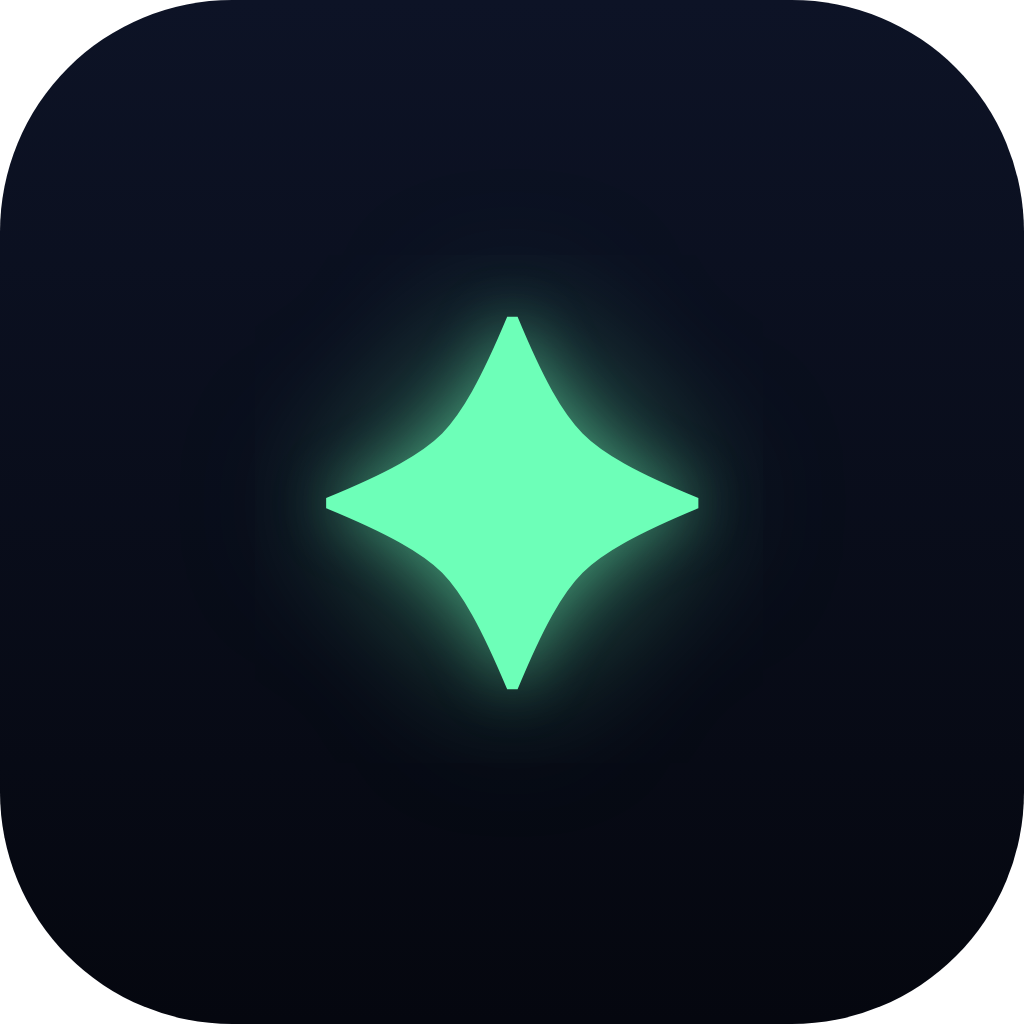
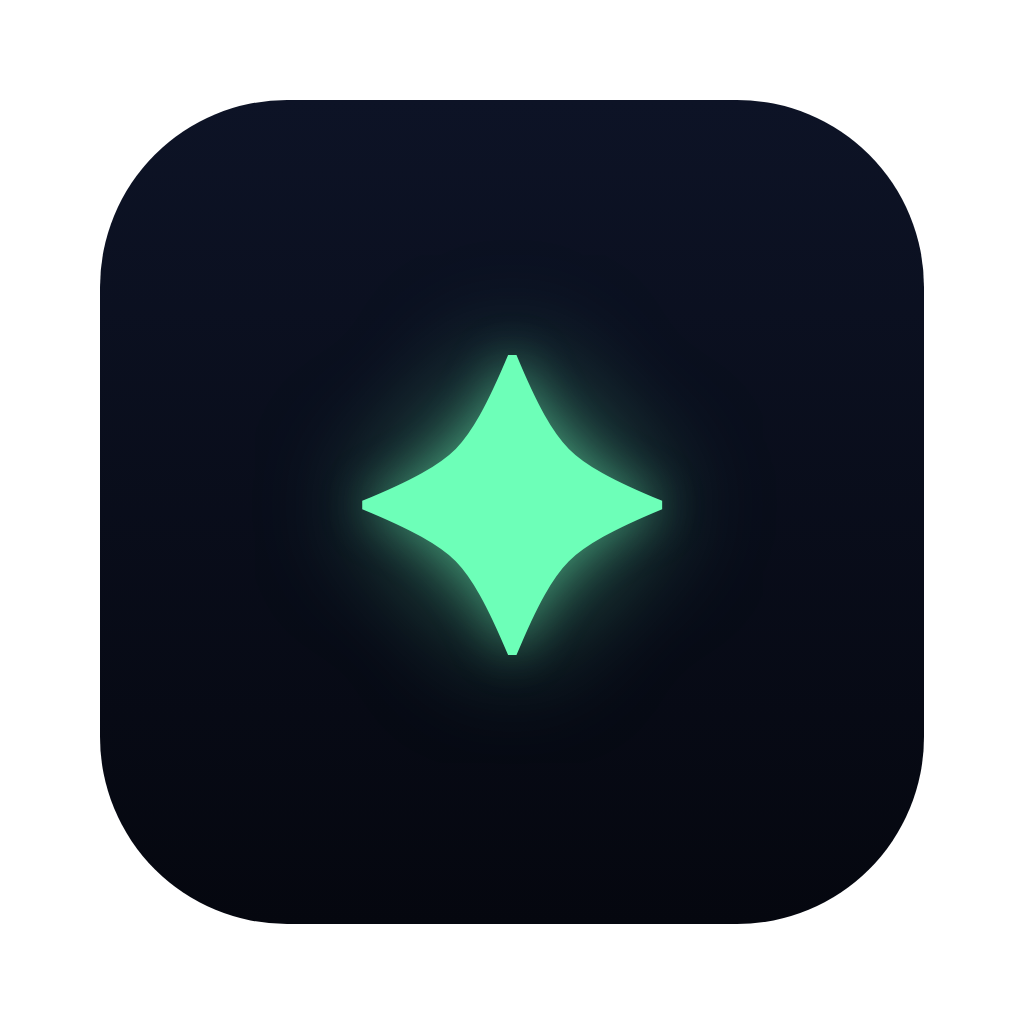
feat(desktop): 图标精修（用户定稿）——Dock 按 macOS 网格缩一档 + 菜单栏品牌星章
1. Dock 图标「比其它 App 大一圈」修复：内容从满幅 1024 改为 macOS 官方图标网格
   824×824 居中（四周各 100px 透明边距），与其他 App 视觉等大；icon.svg 同步
2. 菜单栏小图标（用户定稿：白色背景星星镂空）：彩色状态点 → 品牌 ✦ 星章——
   黑色+透明源 + macOS 模板图（深色菜单栏自动渲染为白底镂空星、浅色菜单栏为黑底
   镂空星，两种外观都保持品牌与可读性）；18pt + @2x 载荷（addRepresentation）；
   运行状态语义移入 tooltip 与托盘菜单（图标不再分色）

验证：jest 1158/1158 · smoke 16 · lint ✓ · E1 ✓。

diff --git a/apps/desktop/resources/README.md b/apps/desktop/resources/README.md
@@ -6,7 +6,8 @@ App 打包资源（`electron-builder.yml` 的 `buildResources`）。
 
 与网页版 favicon 同源的 ✦ 星（深底圆角 + 薄荷绿辉光）：
 
-- `icon.svg` —— 矢量源（设计基准，可再生成任意尺寸）
+- `icon.svg` —— 矢量源（设计基准，可再生成任意尺寸）；尺寸遵循 macOS 官方图标网格：
+  内容 824×824 居中于 1024 画布（四周各 100px 透明边距）——与其他 App 在 Dock 中视觉等大
 - `icon.png` —— 1024×1024 主图；`electron-builder.yml` 的 `icon:` 指向它，
   打包时自动派生 macOS `.icns` / Windows `.ico`
 - 运行时：主进程 `appIconPath()`（macOS `app.dock.setIcon` + 窗口 `icon`，见 `../src/main/index.mjs`）
@@ -21,4 +22,5 @@ App 打包资源（`electron-builder.yml` 的 `buildResources`）。
 # 2) 提交 icon.png + icon.svg
 ```
 
-托盘状态点（绿/黄/红）是另一套 16×16 内联 PNG，见 `../src/main/tray-icons.mjs`，与本图标无关。
+菜单栏图标是另一套「品牌星章」（白底 + 星星镂空，macOS 模板图自动反色；18pt + @2x），
+见 `../src/main/tray-icons.mjs`；运行状态语义在 tooltip 与托盘菜单。
